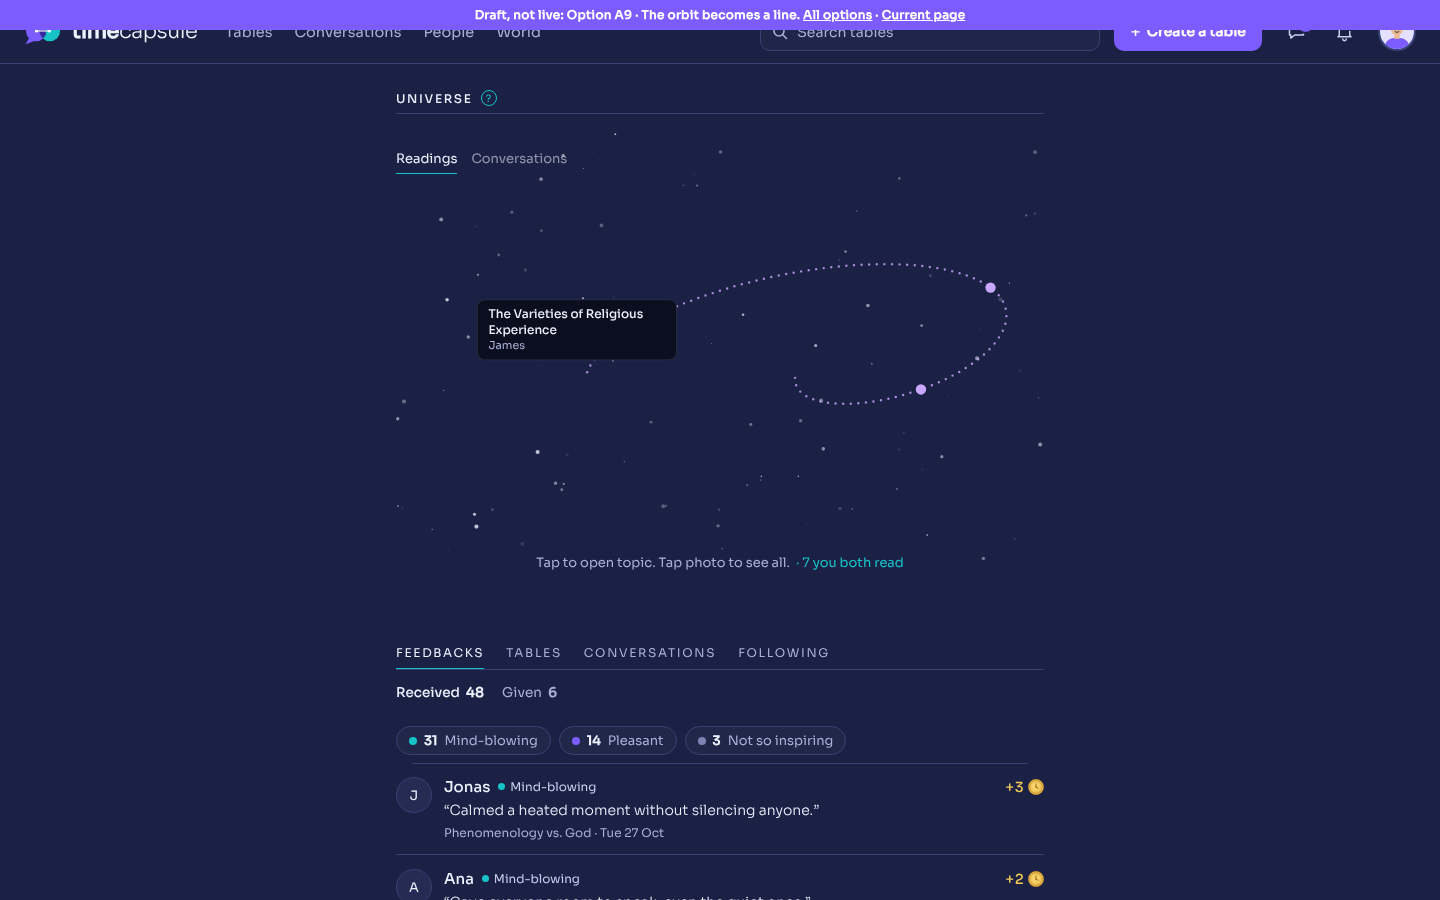
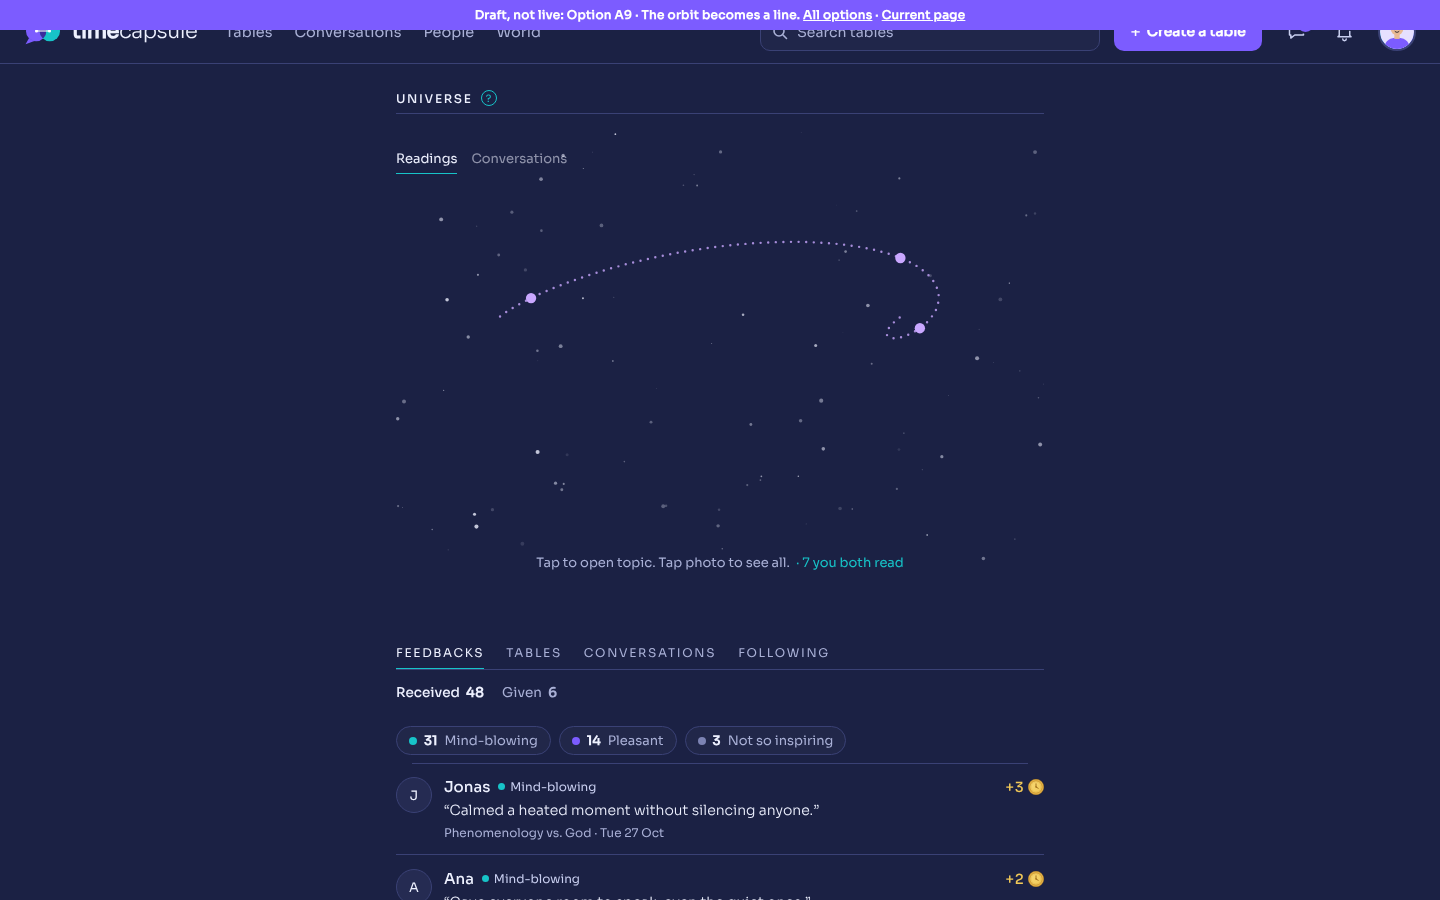
Profile option A9: line spans the full width, wraps back onto the visible universe
Claude-Session: https://claude.ai/code/session_018eq6NgwUiJJnwPF1moeBy1

Changed region(s): [[0.3125, 0.3111, 0.4688, 0.4044], [0.625, 0.3422, 0.6562, 0.3733]]

diff --git a/profile-options/option-a9.html b/profile-options/option-a9.html
@@ -2335,16 +2335,19 @@ mo.observe(u,{childList:true,subtree:true,attributes:true,attributeFilter:['aria
  function metrics(){var r=svg.getBoundingClientRect(),s=Math.min(r.width/340,r.height/250);return {r:r,s:s,ox:(r.width-340*s)/2,oy:(r.height-250*s)/2}}
  // where the orbit and its planets are right now, in map units
  function geom(key){var list=T()||[],i=list.findIndex(function(t){return t.n===key});if(i<0)return null;
+  var M=metrics(),ur=box.getBoundingClientRect(),X0=(ur.left-M.r.left-M.ox)/M.s+4,X1=(ur.right-M.r.left-M.ox)/M.s-4;
   var el=svg.querySelectorAll('ellipse[stroke-dasharray]')[i];if(!el)return null;
   var m=el.getCTM(),cx=+el.getAttribute('cx'),cy=+el.getAttribute('cy'),rx=+el.getAttribute('rx'),ry=+el.getAttribute('ry'),inv=m.inverse();
   var ring=[],line=[];for(var k=0;k<N;k++){var t=Math.PI+k/(N-1)*Math.PI*2;ring.push(tp(m,cx+rx*Math.cos(t),cy+ry*Math.sin(t)));line.push([X0+(X1-X0)*k/(N-1),LY])}
-  var dots=[];svg.querySelectorAll('g.bk').forEach(function(g){var lab=g.getAttribute('aria-label')||'';if(lab.slice(lab.lastIndexOf(', ')+2)!==key)return;
+  var col=list[i].c,els=[].filter.call(svg.querySelectorAll('ellipse'),function(x){return x.getAttribute('stroke')===col});
+  var dots=[];svg.querySelectorAll('g.bk').forEach(function(g){var lab=g.getAttribute('aria-label')||'';if(lab.slice(lab.lastIndexOf(', ')+2)!==key)return;els.push(g);
    var p=tp(g.getCTM(),0,0),l=tp(inv,p[0],p[1]),t=Math.atan2((l[1]-cy)/ry,(l[0]-cx)/rx),u=((t-Math.PI)%(2*Math.PI)+4*Math.PI)%(2*Math.PI)/(2*Math.PI);
    dots.push({a:p,b:[X0+(X1-X0)*u,LY]})});
-  return {key:key,col:list[i].c,ring:ring,line:line,dots:dots}}
+  return {key:key,col:col,ring:ring,line:line,dots:dots,els:els,X0:X0,X1:X1}}
+ function vis(g,on){g.els.forEach(function(e){e.style.visibility=on?'':'hidden'})}
  function ease(x){return x<.5?4*x*x*x:1-Math.pow(-2*x+2,3)/2}
  function overlay(){var m=metrics(),ur=box.getBoundingClientRect(),o=mk('svg',{viewBox:'0 0 340 250','class':'opt-morph'});
-  o.style.left=(m.r.left-ur.left)+'px';o.style.top=(m.r.top-ur.top)+'px';o.style.width=m.r.width+'px';o.style.height=m.r.height+'px';box.appendChild(o);return o}
+  o.style.left=(m.r.left-ur.left)+'px';o.style.top=(m.r.top-ur.top)+'px';o.style.width=m.r.width+'px';o.style.height=m.r.height+'px';o.style.overflow='visible';box.appendChild(o);return o}
  function run(g,dir,done){ // dir 1: ring -> line, -1: line -> ring
   var o=overlay(),pl=mk('polyline',{fill:'none',stroke:g.col,'stroke-opacity':'.8','stroke-width':'1.6','stroke-linecap':'round','stroke-dasharray':'0 5'},o);
   var cs=g.dots.map(function(){return mk('circle',{r:3.4,fill:g.col},o)});
@@ -2354,9 +2357,9 @@ mo.observe(u,{childList:true,subtree:true,attributes:true,attributeFilter:['aria
    g.dots.forEach(function(d,j){cs[j].setAttribute('cx',(d.a[0]+(d.b[0]-d.a[0])*k).toFixed(1));cs[j].setAttribute('cy',(d.a[1]+(d.b[1]-d.a[1])*k).toFixed(1))});
    if(e<1)requestAnimationFrame(f);else{o.remove();done()}}
   requestAnimationFrame(f)}
- function strip(g,m){var s=mk('svg',{viewBox:'0 0 340 '+STRIP,'class':'opt-strip',role:'button',tabindex:'0','aria-label':'Back to the universe'});
-  s.style.width=(340*m.s)+'px';s.style.height=(STRIP*m.s)+'px';s.style.marginTop=m.oy+'px';
-  mk('line',{x1:X0,y1:LY,x2:X1,y2:LY,stroke:g.col,'stroke-opacity':'.8','stroke-width':'1.6','stroke-linecap':'round','stroke-dasharray':'0 5'},s);
+ function strip(g,m){var s=mk('svg',{viewBox:g.X0.toFixed(2)+' 0 '+(g.X1-g.X0).toFixed(2)+' '+STRIP,'class':'opt-strip',role:'button',tabindex:'0','aria-label':'Back to the universe'});
+  s.style.width=((g.X1-g.X0)*m.s)+'px';s.style.height=(STRIP*m.s)+'px';s.style.marginTop=m.oy+'px';
+  mk('line',{x1:g.X0,y1:LY,x2:g.X1,y2:LY,stroke:g.col,'stroke-opacity':'.8','stroke-width':'1.6','stroke-linecap':'round','stroke-dasharray':'0 5'},s);
   g.dots.forEach(function(d){mk('circle',{cx:d.b[0].toFixed(1),cy:LY,r:3.4,fill:g.col},s)});
   s.addEventListener('click',close);s.addEventListener('keydown',function(e){if(e.key==='Enter'||e.key===' '){e.preventDefault();close()}});
   return s}
@@ -2364,13 +2367,13 @@ mo.observe(u,{childList:true,subtree:true,attributes:true,attributeFilter:['aria
  var busy=false;
  function open(key){if(busy||st)return;var g=geom(key);if(!g)return;busy=true;window.__uniHold=1e15;
   var tip=document.getElementById('utip');if(tip)tip.hidden=true;
-  svg.classList.add('opt-fade');
+  vis(g,false);svg.classList.add('opt-fade');
   run(g,1,function(){var y=scrollY,m=metrics();svg.style.display='none';g.strip=strip(g,m);svg.after(g.strip);svg.classList.remove('opt-fade');
    document.body.classList.add('opt-lineopen');setRow(key);window.scrollTo(0,y);st=g;busy=false})}
  function close(){if(busy||!st)return;busy=true;var g=st,y=scrollY;
-  setRow(null);document.body.classList.remove('opt-lineopen');g.strip.remove();svg.style.display='';svg.classList.add('opt-fade');window.scrollTo(0,y);
-  run(g,-1,function(){svg.classList.remove('opt-fade');st=null;busy=false;window.__uniHold=Date.now()-3000})}
- function quick(){if(!st)return;setRow(null);document.body.classList.remove('opt-lineopen');st.strip.remove();svg.style.display='';svg.classList.remove('opt-fade');st=null;busy=false;window.__uniHold=0}
+  setRow(null);document.body.classList.remove('opt-lineopen');g.strip.remove();svg.style.display='';svg.classList.add('opt-fade');window.scrollTo(0,y);void svg.getBoundingClientRect();svg.classList.remove('opt-fade');
+  run(g,-1,function(){vis(g,true);st=null;busy=false;window.__uniHold=Date.now()-3000})}
+ function quick(){if(!st)return;vis(st,true);setRow(null);document.body.classList.remove('opt-lineopen');st.strip.remove();svg.style.display='';svg.classList.remove('opt-fade');st=null;busy=false;window.__uniHold=0}
  function keyOf(g){var lab=g.getAttribute('aria-label')||'';return lab.slice(lab.lastIndexOf(', ')+2)}
  view.addEventListener('click',function(e){var g=e.target.closest&&e.target.closest('#uni g.bk');if(!g)return;e.stopImmediatePropagation();e.preventDefault();open(keyOf(g))},true);
  view.addEventListener('keydown',function(e){var g=e.target.closest&&e.target.closest('#uni g.bk');if(!g||!(e.key==='Enter'||e.key===' '))return;e.stopImmediatePropagation();e.preventDefault();open(keyOf(g))},true);

diff --git a/profile-options/a9.js b/profile-options/a9.js
@@ -12,16 +12,19 @@
  function metrics(){var r=svg.getBoundingClientRect(),s=Math.min(r.width/340,r.height/250);return {r:r,s:s,ox:(r.width-340*s)/2,oy:(r.height-250*s)/2}}
  // where the orbit and its planets are right now, in map units
  function geom(key){var list=T()||[],i=list.findIndex(function(t){return t.n===key});if(i<0)return null;
+  var M=metrics(),ur=box.getBoundingClientRect(),X0=(ur.left-M.r.left-M.ox)/M.s+4,X1=(ur.right-M.r.left-M.ox)/M.s-4;
   var el=svg.querySelectorAll('ellipse[stroke-dasharray]')[i];if(!el)return null;
   var m=el.getCTM(),cx=+el.getAttribute('cx'),cy=+el.getAttribute('cy'),rx=+el.getAttribute('rx'),ry=+el.getAttribute('ry'),inv=m.inverse();
   var ring=[],line=[];for(var k=0;k<N;k++){var t=Math.PI+k/(N-1)*Math.PI*2;ring.push(tp(m,cx+rx*Math.cos(t),cy+ry*Math.sin(t)));line.push([X0+(X1-X0)*k/(N-1),LY])}
-  var dots=[];svg.querySelectorAll('g.bk').forEach(function(g){var lab=g.getAttribute('aria-label')||'';if(lab.slice(lab.lastIndexOf(', ')+2)!==key)return;
+  var col=list[i].c,els=[].filter.call(svg.querySelectorAll('ellipse'),function(x){return x.getAttribute('stroke')===col});
+  var dots=[];svg.querySelectorAll('g.bk').forEach(function(g){var lab=g.getAttribute('aria-label')||'';if(lab.slice(lab.lastIndexOf(', ')+2)!==key)return;els.push(g);
    var p=tp(g.getCTM(),0,0),l=tp(inv,p[0],p[1]),t=Math.atan2((l[1]-cy)/ry,(l[0]-cx)/rx),u=((t-Math.PI)%(2*Math.PI)+4*Math.PI)%(2*Math.PI)/(2*Math.PI);
    dots.push({a:p,b:[X0+(X1-X0)*u,LY]})});
-  return {key:key,col:list[i].c,ring:ring,line:line,dots:dots}}
+  return {key:key,col:col,ring:ring,line:line,dots:dots,els:els,X0:X0,X1:X1}}
+ function vis(g,on){g.els.forEach(function(e){e.style.visibility=on?'':'hidden'})}
  function ease(x){return x<.5?4*x*x*x:1-Math.pow(-2*x+2,3)/2}
  function overlay(){var m=metrics(),ur=box.getBoundingClientRect(),o=mk('svg',{viewBox:'0 0 340 250','class':'opt-morph'});
-  o.style.left=(m.r.left-ur.left)+'px';o.style.top=(m.r.top-ur.top)+'px';o.style.width=m.r.width+'px';o.style.height=m.r.height+'px';box.appendChild(o);return o}
+  o.style.left=(m.r.left-ur.left)+'px';o.style.top=(m.r.top-ur.top)+'px';o.style.width=m.r.width+'px';o.style.height=m.r.height+'px';o.style.overflow='visible';box.appendChild(o);return o}
  function run(g,dir,done){ // dir 1: ring -> line, -1: line -> ring
   var o=overlay(),pl=mk('polyline',{fill:'none',stroke:g.col,'stroke-opacity':'.8','stroke-width':'1.6','stroke-linecap':'round','stroke-dasharray':'0 5'},o);
   var cs=g.dots.map(function(){return mk('circle',{r:3.4,fill:g.col},o)});
@@ -31,9 +34,9 @@
    g.dots.forEach(function(d,j){cs[j].setAttribute('cx',(d.a[0]+(d.b[0]-d.a[0])*k).toFixed(1));cs[j].setAttribute('cy',(d.a[1]+(d.b[1]-d.a[1])*k).toFixed(1))});
    if(e<1)requestAnimationFrame(f);else{o.remove();done()}}
   requestAnimationFrame(f)}
- function strip(g,m){var s=mk('svg',{viewBox:'0 0 340 '+STRIP,'class':'opt-strip',role:'button',tabindex:'0','aria-label':'Back to the universe'});
-  s.style.width=(340*m.s)+'px';s.style.height=(STRIP*m.s)+'px';s.style.marginTop=m.oy+'px';
-  mk('line',{x1:X0,y1:LY,x2:X1,y2:LY,stroke:g.col,'stroke-opacity':'.8','stroke-width':'1.6','stroke-linecap':'round','stroke-dasharray':'0 5'},s);
+ function strip(g,m){var s=mk('svg',{viewBox:g.X0.toFixed(2)+' 0 '+(g.X1-g.X0).toFixed(2)+' '+STRIP,'class':'opt-strip',role:'button',tabindex:'0','aria-label':'Back to the universe'});
+  s.style.width=((g.X1-g.X0)*m.s)+'px';s.style.height=(STRIP*m.s)+'px';s.style.marginTop=m.oy+'px';
+  mk('line',{x1:g.X0,y1:LY,x2:g.X1,y2:LY,stroke:g.col,'stroke-opacity':'.8','stroke-width':'1.6','stroke-linecap':'round','stroke-dasharray':'0 5'},s);
   g.dots.forEach(function(d){mk('circle',{cx:d.b[0].toFixed(1),cy:LY,r:3.4,fill:g.col},s)});
   s.addEventListener('click',close);s.addEventListener('keydown',function(e){if(e.key==='Enter'||e.key===' '){e.preventDefault();close()}});
   return s}
@@ -41,13 +44,13 @@
  var busy=false;
  function open(key){if(busy||st)return;var g=geom(key);if(!g)return;busy=true;window.__uniHold=1e15;
   var tip=document.getElementById('utip');if(tip)tip.hidden=true;
-  svg.classList.add('opt-fade');
+  vis(g,false);svg.classList.add('opt-fade');
   run(g,1,function(){var y=scrollY,m=metrics();svg.style.display='none';g.strip=strip(g,m);svg.after(g.strip);svg.classList.remove('opt-fade');
    document.body.classList.add('opt-lineopen');setRow(key);window.scrollTo(0,y);st=g;busy=false})}
  function close(){if(busy||!st)return;busy=true;var g=st,y=scrollY;
-  setRow(null);document.body.classList.remove('opt-lineopen');g.strip.remove();svg.style.display='';svg.classList.add('opt-fade');window.scrollTo(0,y);
-  run(g,-1,function(){svg.classList.remove('opt-fade');st=null;busy=false;window.__uniHold=Date.now()-3000})}
- function quick(){if(!st)return;setRow(null);document.body.classList.remove('opt-lineopen');st.strip.remove();svg.style.display='';svg.classList.remove('opt-fade');st=null;busy=false;window.__uniHold=0}
+  setRow(null);document.body.classList.remove('opt-lineopen');g.strip.remove();svg.style.display='';svg.classList.add('opt-fade');window.scrollTo(0,y);void svg.getBoundingClientRect();svg.classList.remove('opt-fade');
+  run(g,-1,function(){vis(g,true);st=null;busy=false;window.__uniHold=Date.now()-3000})}
+ function quick(){if(!st)return;vis(st,true);setRow(null);document.body.classList.remove('opt-lineopen');st.strip.remove();svg.style.display='';svg.classList.remove('opt-fade');st=null;busy=false;window.__uniHold=0}
  function keyOf(g){var lab=g.getAttribute('aria-label')||'';return lab.slice(lab.lastIndexOf(', ')+2)}
  view.addEventListener('click',function(e){var g=e.target.closest&&e.target.closest('#uni g.bk');if(!g)return;e.stopImmediatePropagation();e.preventDefault();open(keyOf(g))},true);
  view.addEventListener('keydown',function(e){var g=e.target.closest&&e.target.closest('#uni g.bk');if(!g||!(e.key==='Enter'||e.key===' '))return;e.stopImmediatePropagation();e.preventDefault();open(keyOf(g))},true);
